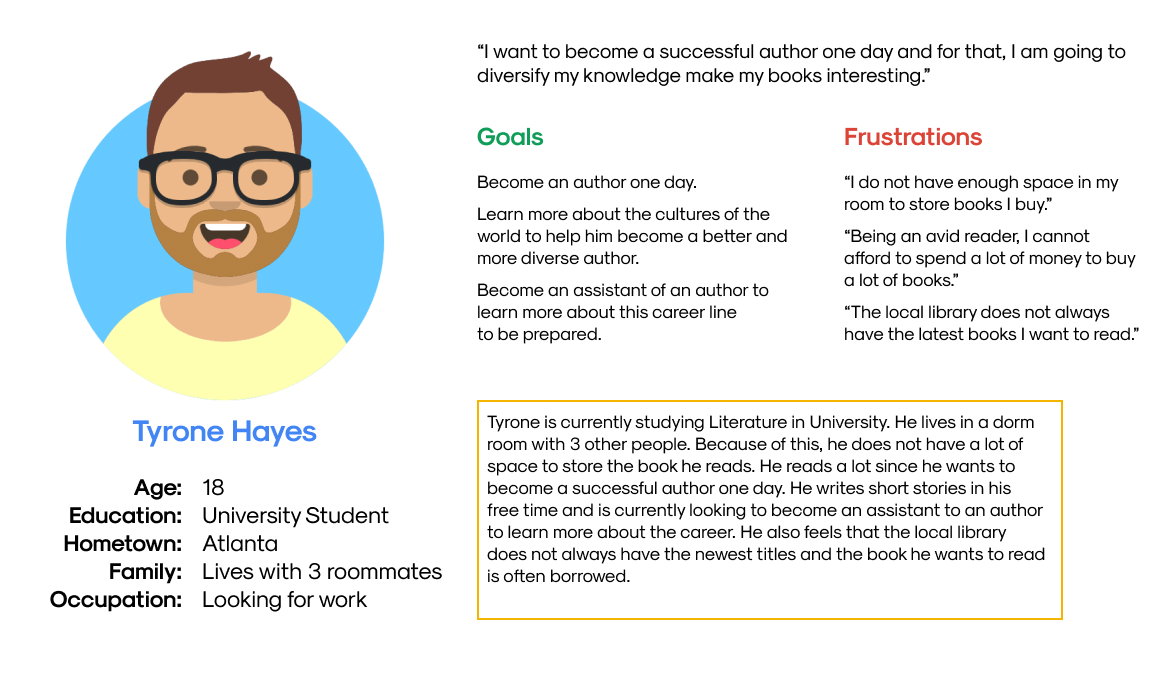
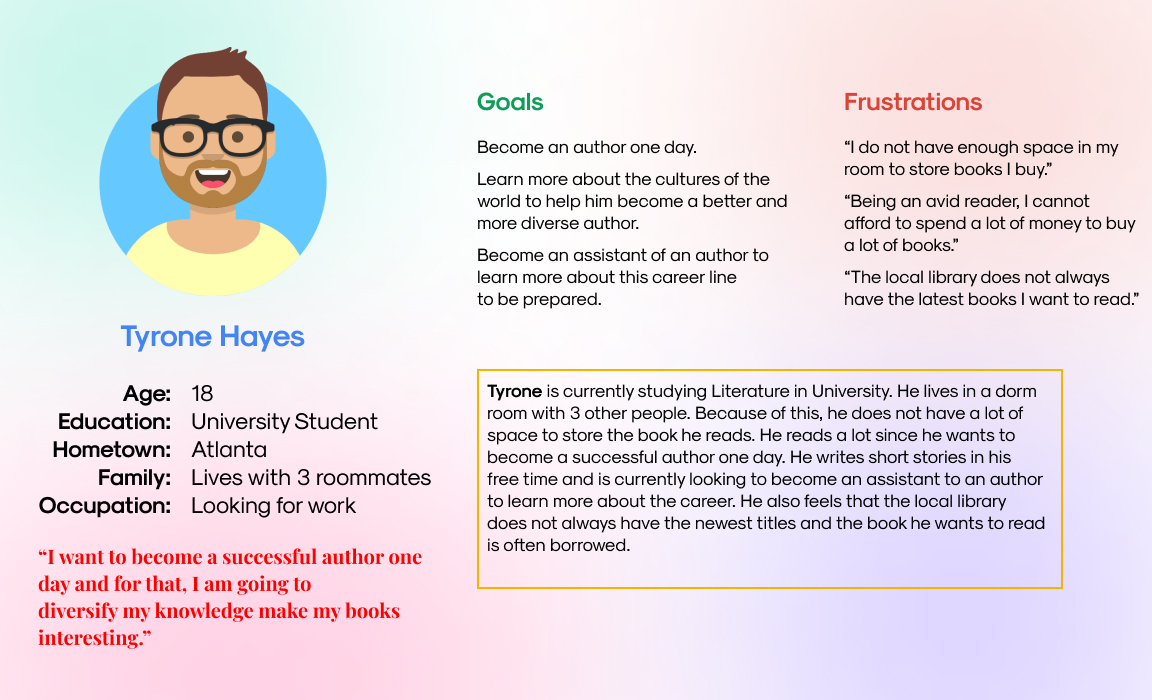
user persona changes

diff --git a/RideOn.html b/RideOn.html
@@ -89,7 +89,7 @@
                             </p>
                             
                             <p>
-                                <img id = "persona1" class="imgcontent" src="images/Bicycle_Application/UP1.webp" alt="User Persona 1" style="width:85%">
+                                <img id = "persona1" class="imgcontent" src="images/Bicycle_Application/HarveyPers.jpg" alt="User Persona 1" style="width:85%">
                             </p>
                             
                             
